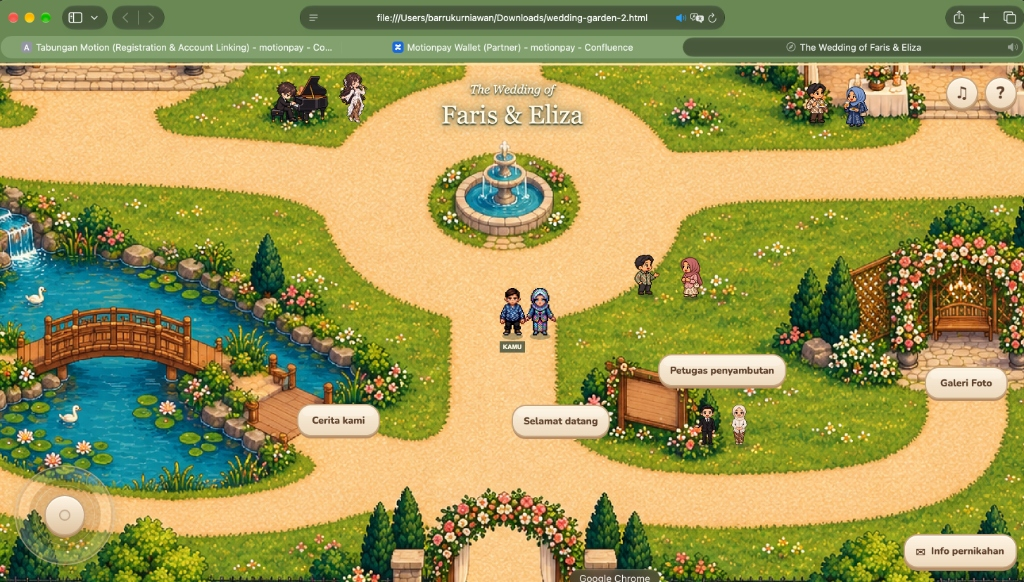
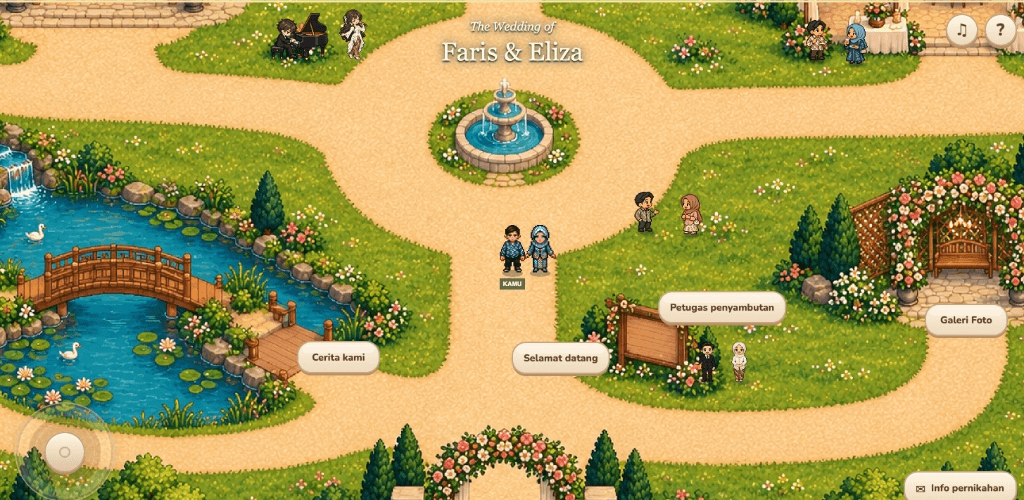
fix(ui): crop browser bar and tabs from preset 2 preview images

diff --git a/src/lib/components/platform/DashboardShell.svelte b/src/lib/components/platform/DashboardShell.svelte
@@ -553,7 +553,7 @@
                         <span class="chrome-dot red"></span><span class="chrome-dot yellow"></span><span class="chrome-dot green"></span>
                         <span class="chrome-url">faris-eliza.marryme.web.id</span>
                       </div>
-                      <img src="/media/preset-2d-desktop.png" alt="Preset 2 - Tampilan Laptop 2D" class="laptop-img" />
+                      <img src="/media/preset-2d-desktop.png?v=3" alt="Preset 2 - Tampilan Laptop 2D" class="laptop-img" />
                     </div>
                     <div class="laptop-base"></div>
                   </div>
@@ -561,7 +561,7 @@
                   <div class="mockup-phone">
                     <div class="phone-screen">
                       <div class="phone-notch"></div>
-                      <img src="/media/preset-2d-mobile.png" alt="Preset 2 - Tampilan HP 2D" class="phone-img" />
+                      <img src="/media/preset-2d-mobile.png?v=3" alt="Preset 2 - Tampilan HP 2D" class="phone-img" />
                     </div>
                   </div>
                 </div>
@@ -766,7 +766,7 @@
             <figure class="phone-frame">
               <div class="phone-notch" aria-hidden="true"></div>
               <img
-                src="/media/preset-2d-mobile.png"
+                src="/media/preset-2d-mobile.png?v=3"
                 alt="Preview undangan 2D di ponsel"
                 class="phone-shot"
                 loading="lazy"

diff --git a/src/lib/components/platform/OnboardingWizard.svelte b/src/lib/components/platform/OnboardingWizard.svelte
@@ -26,7 +26,7 @@
   <!-- 2D Pixel Garden Backdrop -->
   <div 
     class="absolute inset-0 bg-cover bg-center transition-all duration-700 ease-out transform"
-    style="background-image: url('/media/preset-2d-desktop.png?v=2'); opacity: {presetInput === '2d_garden' ? '0.45' : '0'}; transform: scale({presetInput === '2d_garden' ? '1' : '1.04'}); filter: blur(2px);"
+    style="background-image: url('/media/preset-2d-desktop.png?v=3'); opacity: {presetInput === '2d_garden' ? '0.45' : '0'}; transform: scale({presetInput === '2d_garden' ? '1' : '1.04'}); filter: blur(2px);"
   ></div>
 
   <!-- Soft Vignette & Frosted Gradient for Perfect Form Readability -->
@@ -124,7 +124,7 @@
           <!-- Gameplay Image Preview Banner -->
           <div class="relative w-full h-28 overflow-hidden bg-slate-100 shrink-0">
             <img 
-              src="/media/preset-2d-desktop.png?v=2" 
+              src="/media/preset-2d-desktop.png?v=3" 
               alt="Preview Gameplay 2D Pixel Garden" 
               class="w-full h-full object-cover transition-transform duration-500 group-hover:scale-105"
             />
